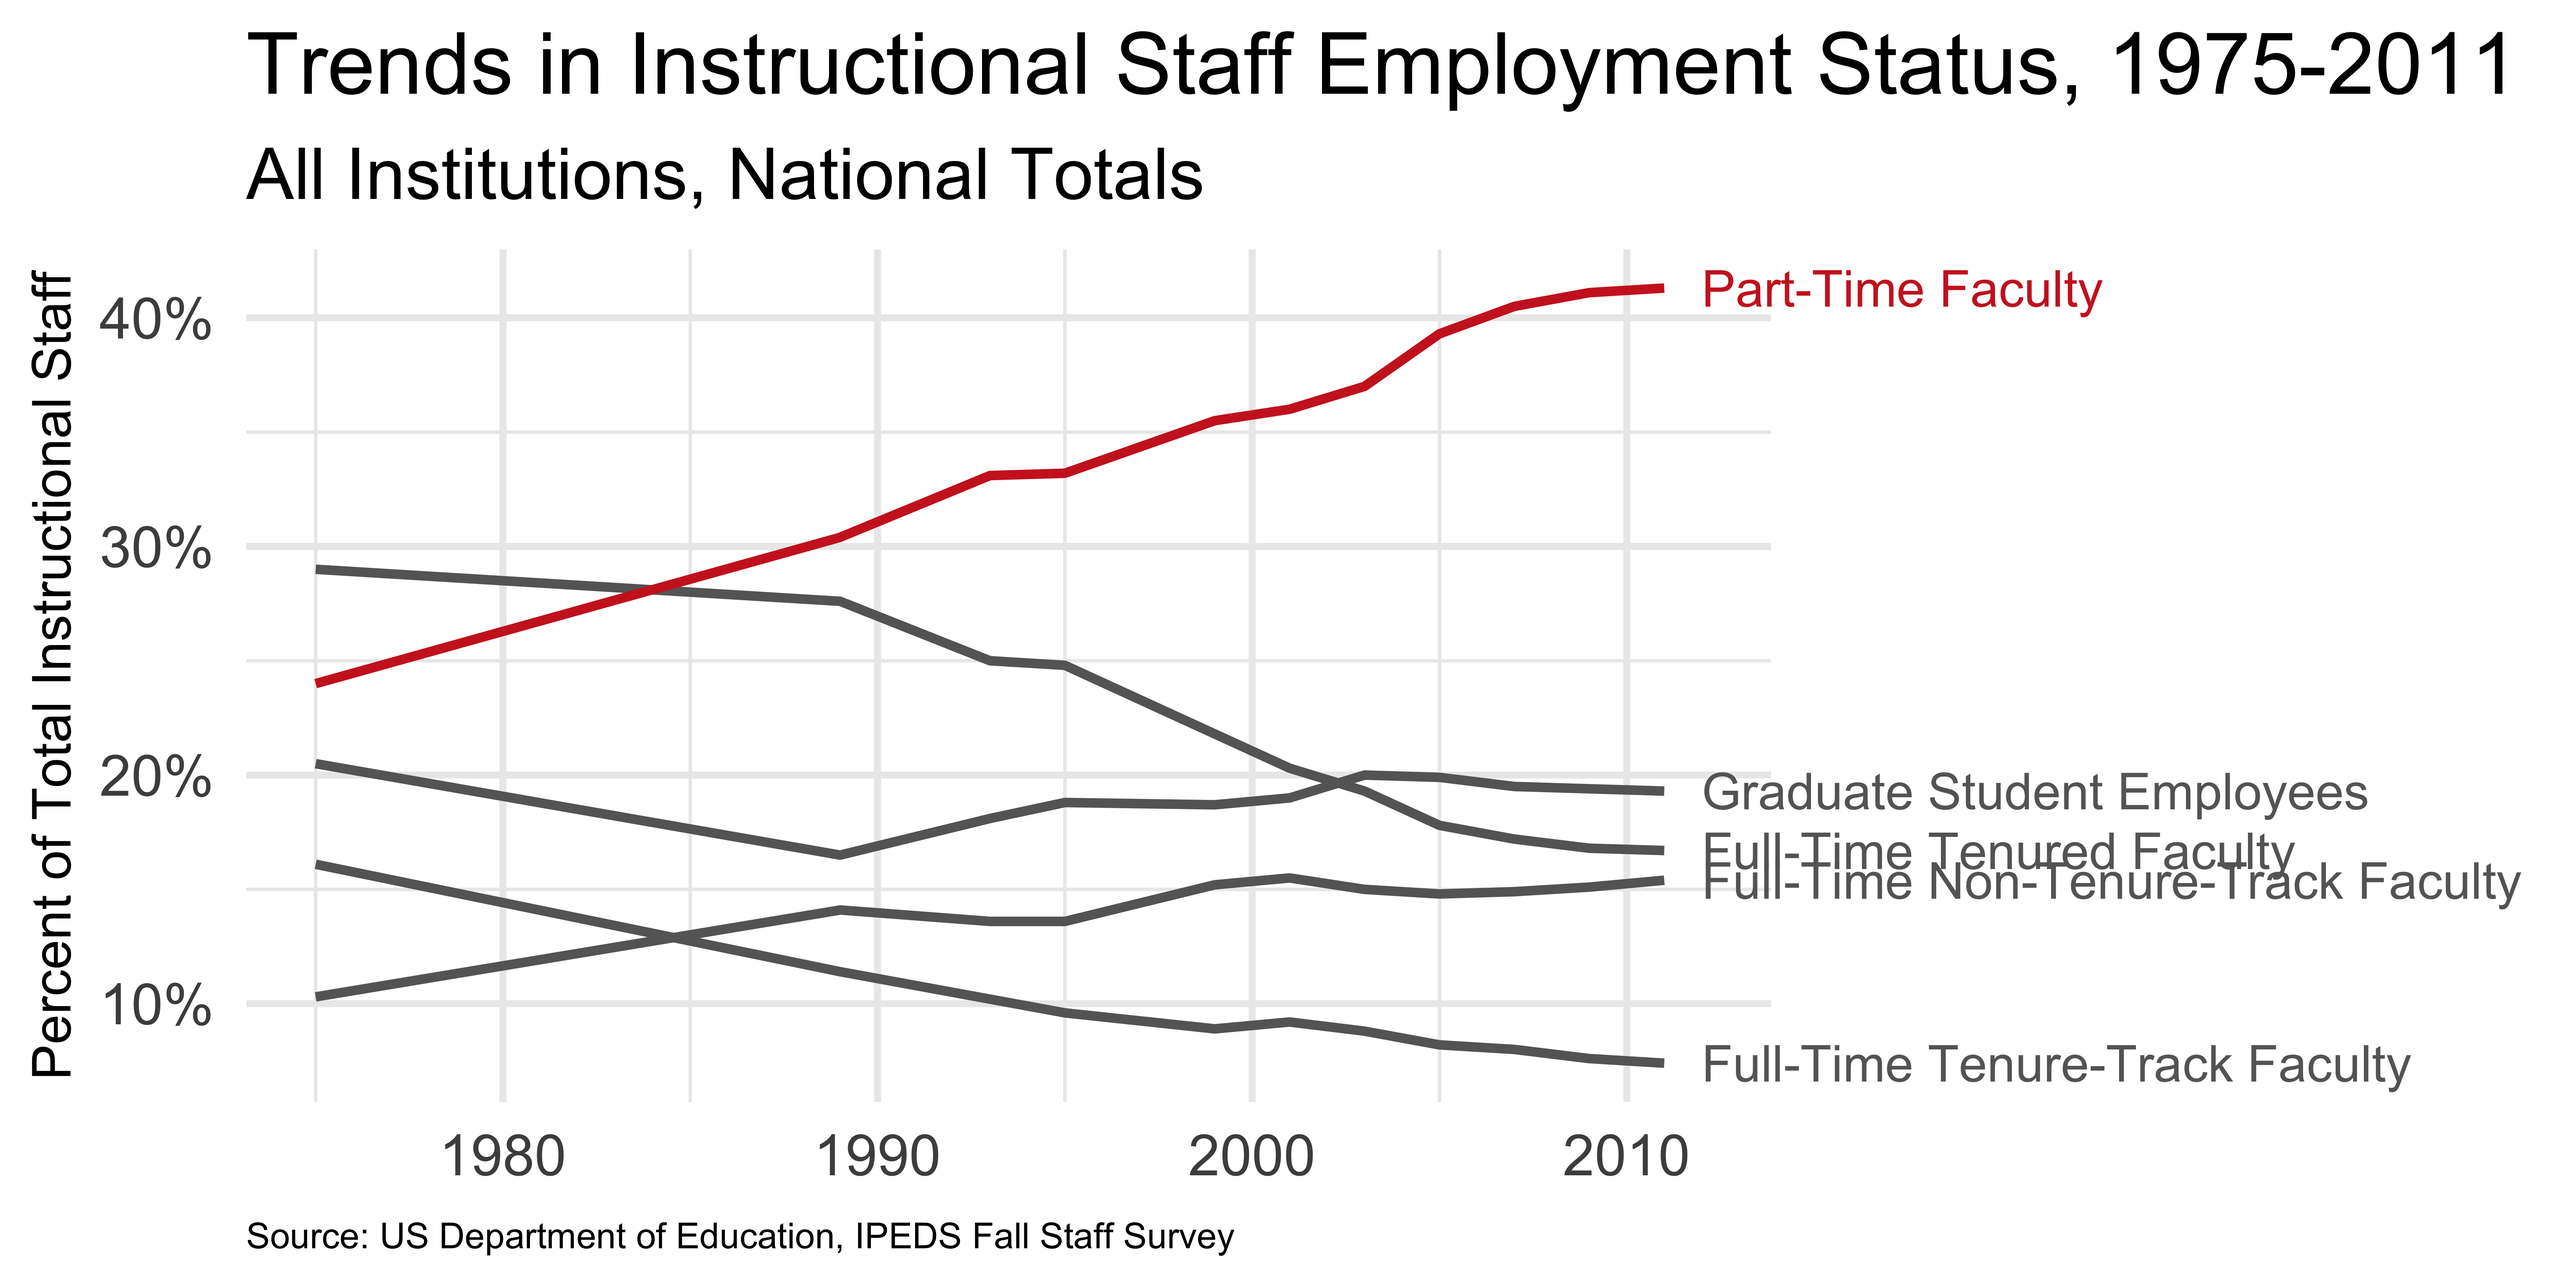
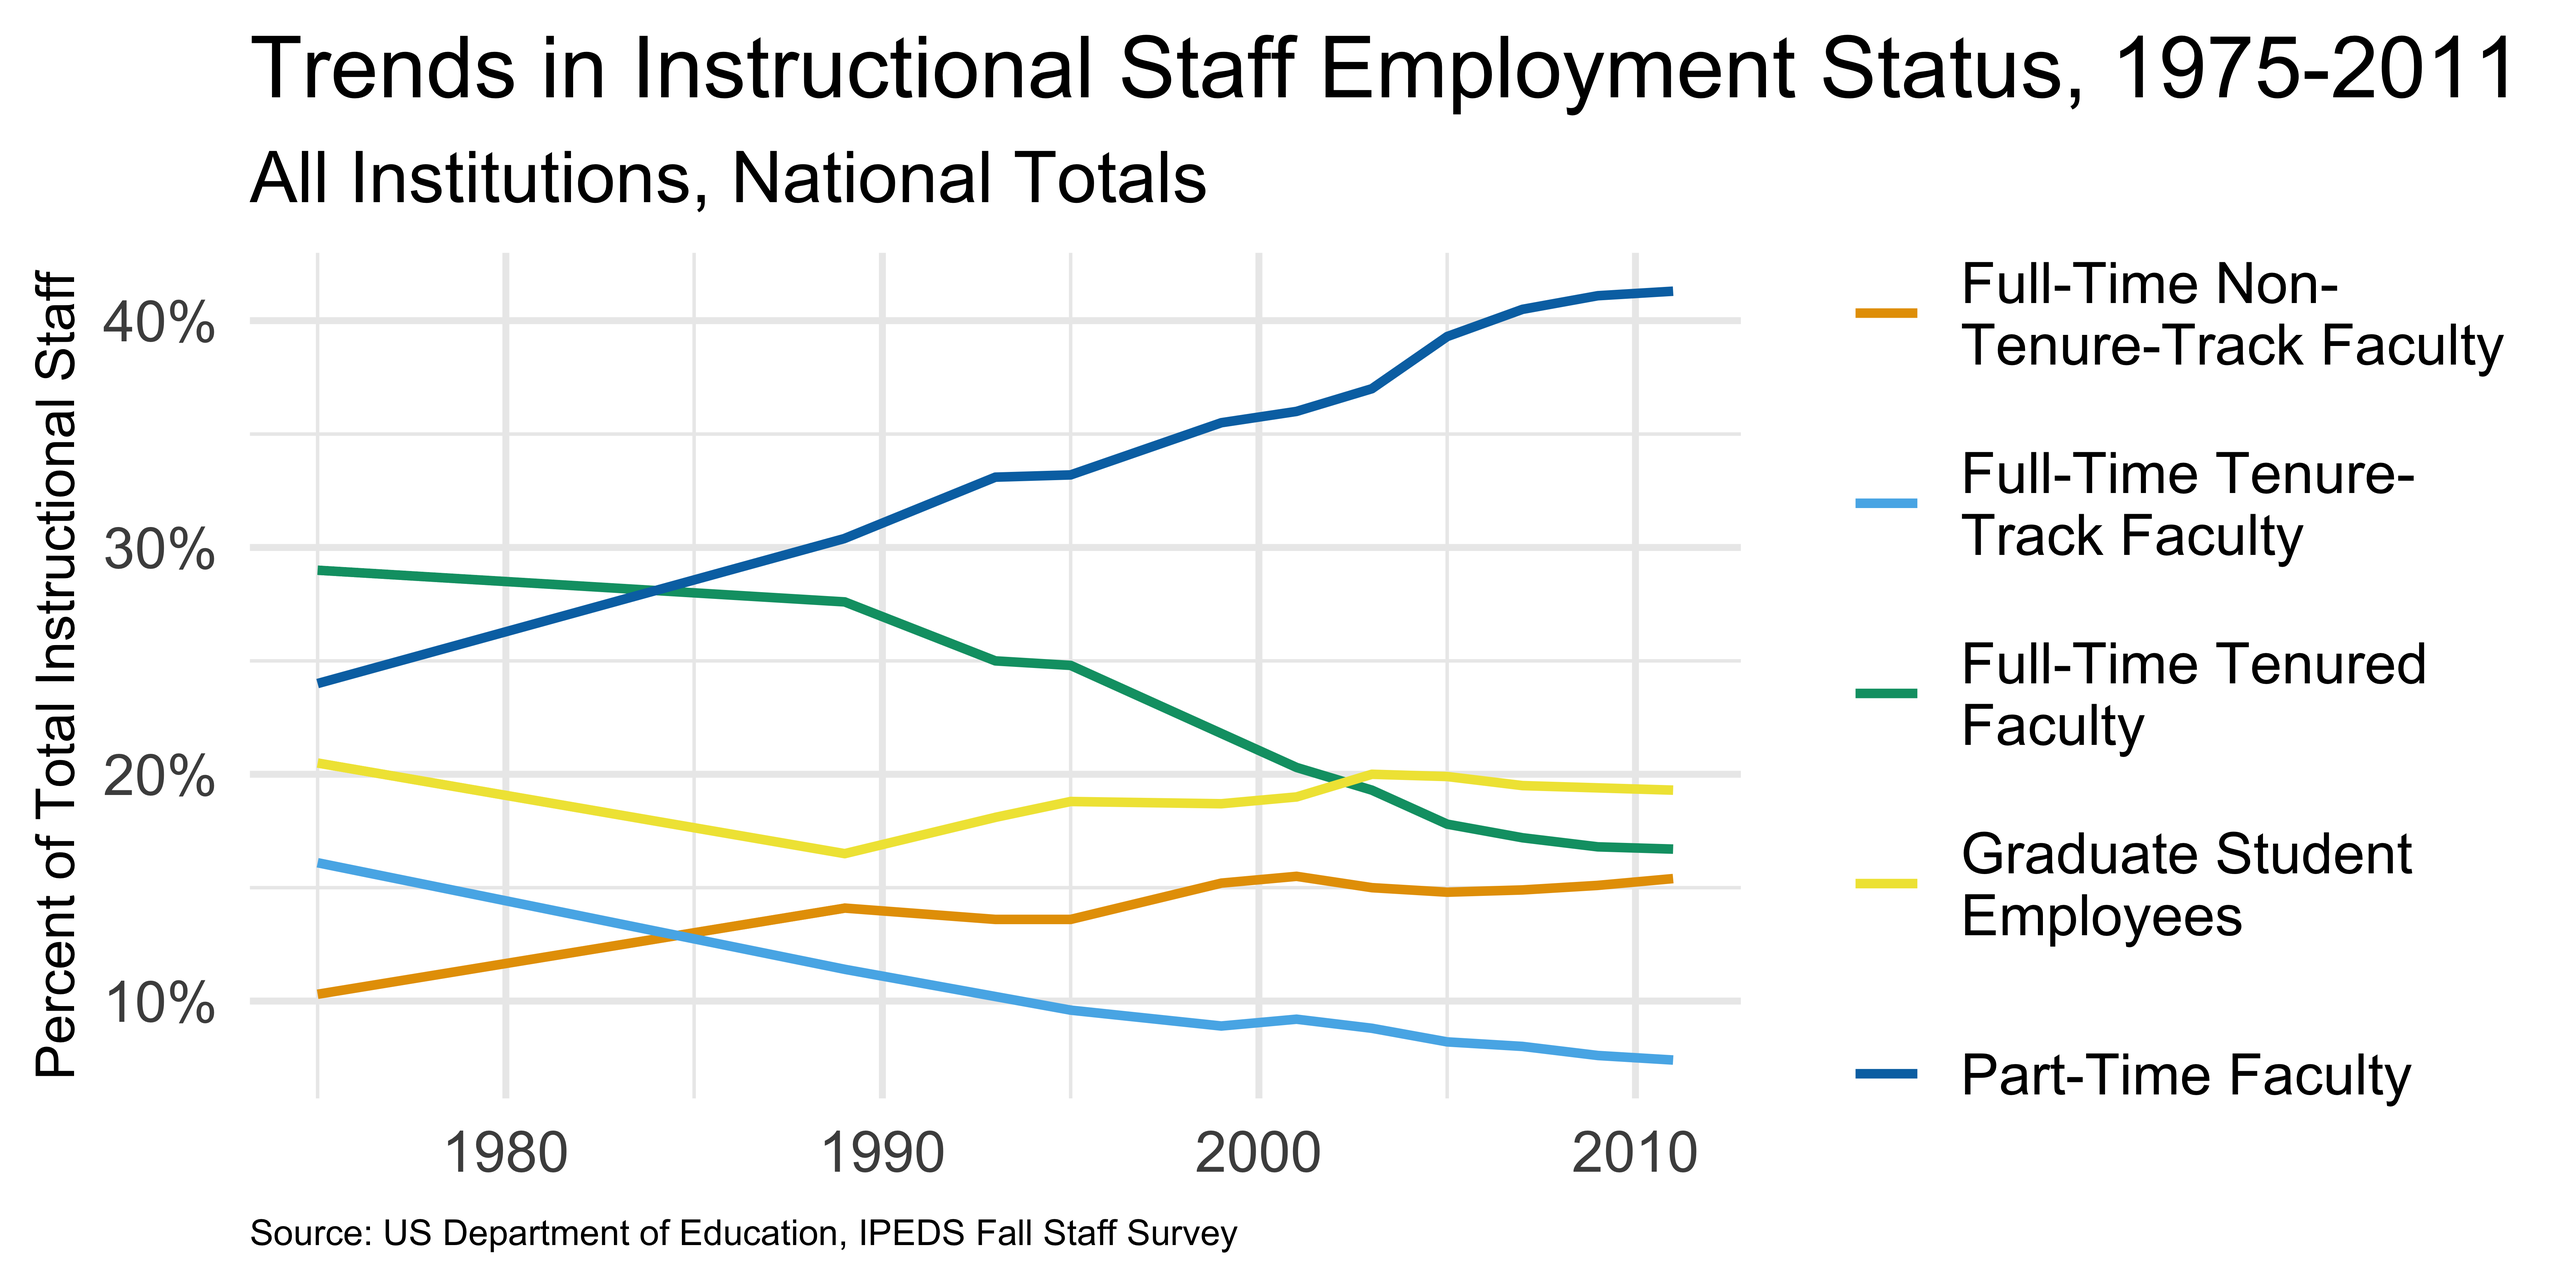
Reknit

diff --git a/index.html b/index.html
@@ -277,9 +277,31 @@ The values are percentage of hires of that type of faculty for each year.
 
 ---
 
+## Use an accessible color scale
+
+This is how the previous plot might look like to someone with Deuteranopia (a type of red-green confusion)
+
+&lt;img src="images/deuteranopia.png" width="90%" /&gt;
+
+---
+
+## Use an accessible color scale
+
+This is it might look like to someone with Protanopia (also a type of red-green confusion)
+
+&lt;img src="images/protanopia.png" width="90%" /&gt;
+
+---
+
+## Use an accessible color scale
+
+&lt;img src="index_files/figure-html/unnamed-chunk-18-1.png" width="100%" /&gt;
+
+---
+
 ## Use direct labeling
 
-&lt;img src="index_files/figure-html/unnamed-chunk-16-1.png" width="100%" /&gt;
+&lt;img src="index_files/figure-html/unnamed-chunk-19-1.png" width="100%" /&gt;
 
 ---
 
@@ -287,25 +309,25 @@ The values are percentage of hires of that type of faculty for each year.
 
 
 
-&lt;img src="index_files/figure-html/unnamed-chunk-18-1.png" width="100%" /&gt;
+&lt;img src="index_files/figure-html/unnamed-chunk-21-1.png" width="100%" /&gt;
 
 ---
 
 ## Pick a purpose
 
-&lt;img src="index_files/figure-html/unnamed-chunk-19-1.png" width="100%" /&gt;
+&lt;img src="index_files/figure-html/unnamed-chunk-22-1.png" width="100%" /&gt;
 
 ---
 
 ## Use labels to communicate the message
 
-&lt;img src="index_files/figure-html/unnamed-chunk-20-1.png" width="100%" /&gt;
+&lt;img src="index_files/figure-html/unnamed-chunk-23-1.png" width="100%" /&gt;
 
 ---
 
 ## Simplify
 
-&lt;img src="index_files/figure-html/unnamed-chunk-21-1.png" width="100%" /&gt;
+&lt;img src="index_files/figure-html/unnamed-chunk-24-1.png" width="100%" /&gt;
 
 ---
 
@@ -821,7 +843,7 @@ Should these data be displayed in a table or a plot?
 </table>
 </div>
 
-&lt;img src="index_files/figure-html/unnamed-chunk-23-1.png" width="80%" style="display: block; margin: auto;" /&gt;
+&lt;img src="index_files/figure-html/unnamed-chunk-26-1.png" width="80%" style="display: block; margin: auto;" /&gt;
 
 ---
 
@@ -1370,13 +1392,13 @@ For each combination we have the total number of cases, the cumulative cases, an
 
 
 
-&lt;img src="index_files/figure-html/unnamed-chunk-28-1.png" width="100%" /&gt;
+&lt;img src="index_files/figure-html/unnamed-chunk-31-1.png" width="100%" /&gt;
 
 ---
 
 ## Plot 2: Logged scale
 
-&lt;img src="index_files/figure-html/unnamed-chunk-29-1.png" width="100%" /&gt;
+&lt;img src="index_files/figure-html/unnamed-chunk-32-1.png" width="100%" /&gt;
 
 ---
 
@@ -1384,7 +1406,7 @@ For each combination we have the total number of cases, the cumulative cases, an
 Which plot do you prefer, and why?
 ]
 
-&lt;img src="index_files/figure-html/unnamed-chunk-30-1.png" width="100%" /&gt;
+&lt;img src="index_files/figure-html/unnamed-chunk-33-1.png" width="100%" /&gt;
 
 ---
 
@@ -1392,7 +1414,7 @@ Which plot do you prefer, and why?
 Zoom in to the first 25 days: Which plot do you prefer, and why?
 ]
 
-&lt;img src="index_files/figure-html/unnamed-chunk-31-1.png" width="100%" /&gt;
+&lt;img src="index_files/figure-html/unnamed-chunk-34-1.png" width="100%" /&gt;
 
 ---
 
